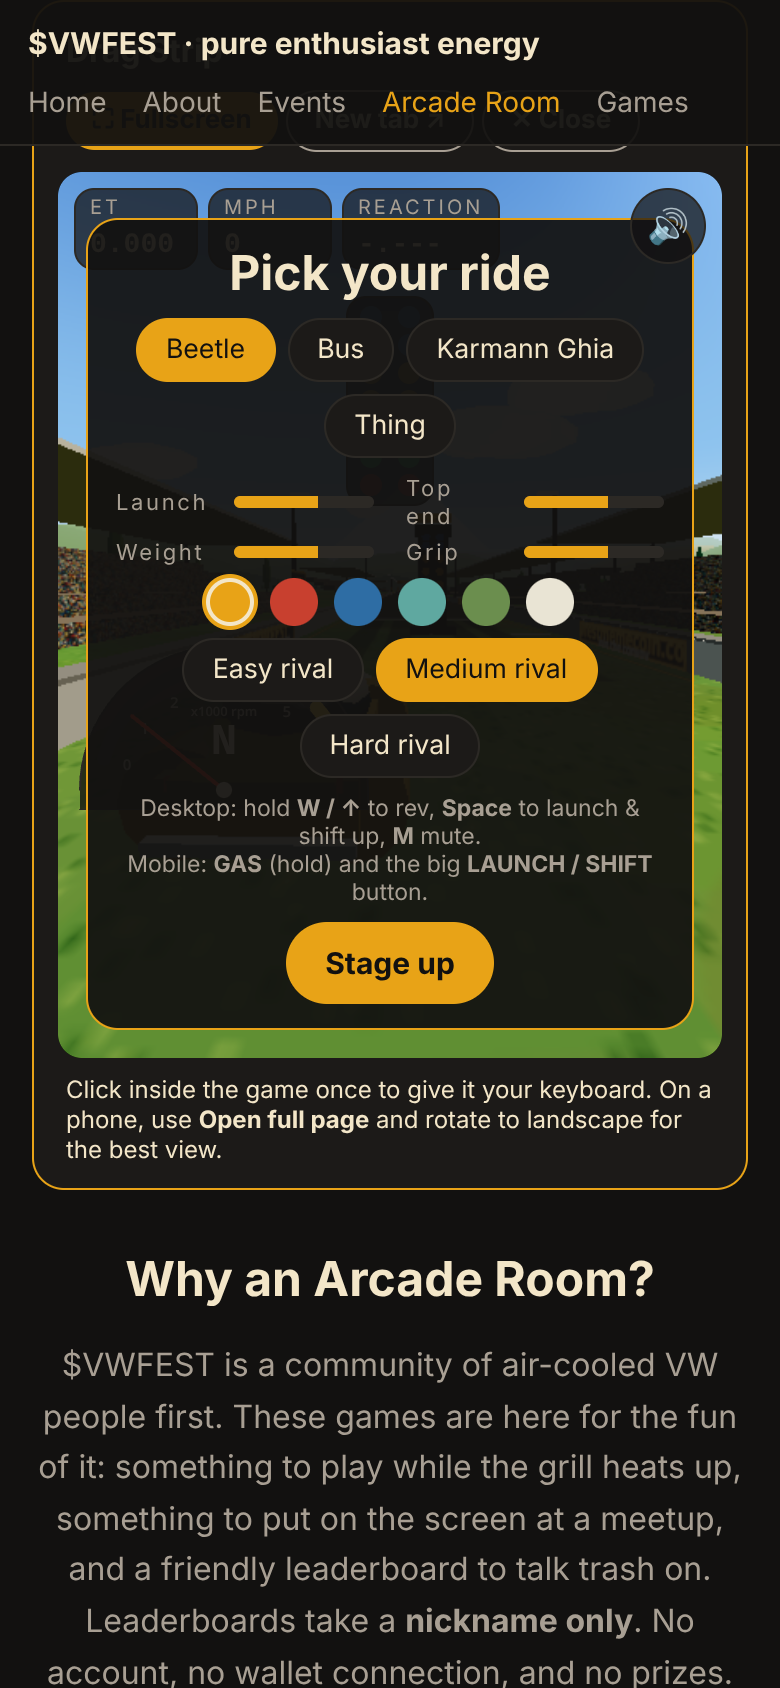
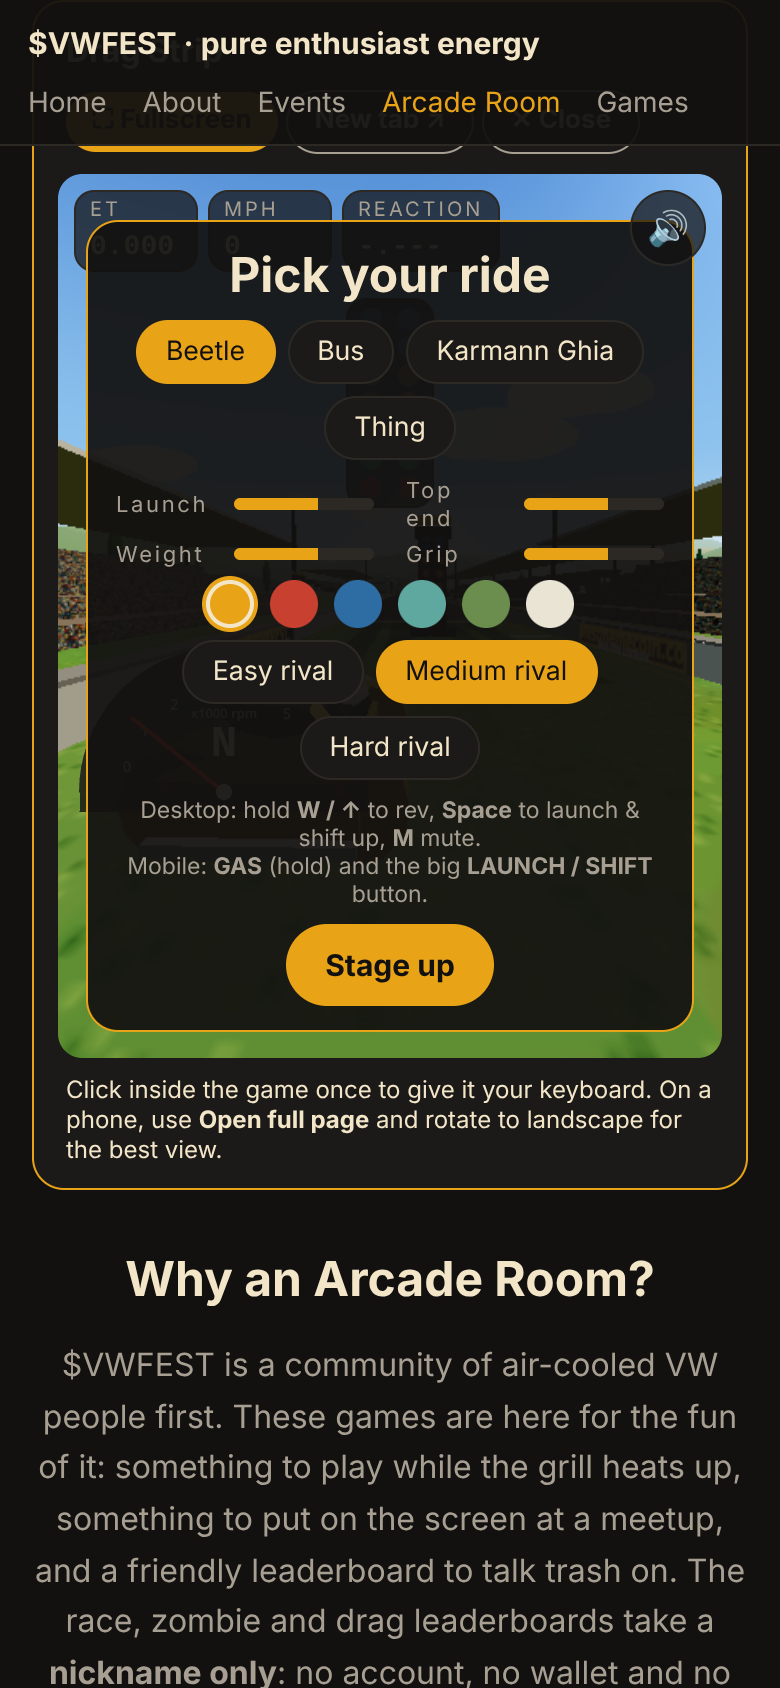
Add GUESS THE CHART card (link-only, new tab)

diff --git a/index.html b/index.html
@@ -6,7 +6,7 @@
 <meta http-equiv="Content-Security-Policy" content="default-src 'self'; script-src 'self'; style-src 'self'; img-src 'self' data: https://vwfestmemecoin.com; connect-src 'self' https://race.vwfestmemecoin.com; frame-src https://vwfest.github.io; font-src 'self' data:; object-src 'none'; base-uri 'self'; form-action 'none'">
 <meta name="referrer" content="strict-origin-when-cross-origin">
 <title>$VWFEST Arcade Room — free games for holders &amp; enthusiasts</title>
-<meta name="description" content="The $VWFEST Arcade Room: free 3D browser games for holders and enthusiasts alike. Roadtrip Race, DUST &amp; DEAD zombie survival and Drag Strip, built for fun and community gatherings.">
+<meta name="description" content="The $VWFEST Arcade Room: free 3D browser games for holders and enthusiasts alike. Roadtrip Race, DUST &amp; DEAD zombie survival, Drag Strip and GUESS THE CHART, built for fun and community gatherings.">
 <link rel="icon" href="https://vwfestmemecoin.com/gallery/favicons/favicon.png">
 <link rel="stylesheet" href="style.css?v=1">
 </head>
@@ -24,7 +24,7 @@
 
 <main>
   <section class="hero">
-    <p class="kicker">FREE · NO WALLET · NO LOGIN · JUST FUN</p>
+    <p class="kicker">FREE GAMES · JUST FUN</p>
     <h1>ARCADE <span>ROOM</span></h1>
     <p class="tag">Free 3D games for <b>$VWFEST</b> holders and enthusiasts alike. Built for fun and for community gatherings: pull it up on a big screen at the meetup, pass the phone around, and settle it on the leaderboard.</p>
     <p class="cta"><a class="btn" href="#games">Pick a game ↓</a> <a class="btn ghost" href="https://vwfestmemecoin.com" rel="noopener">← Back to vwfestmemecoin.com</a></p>
@@ -64,6 +64,17 @@
         <h3>🏆 Quickest quarter miles</h3><ol class="top" data-board="drag"><li class="muted">Loading…</li></ol>
       </div>
     </article>
+
+    <article class="card" id="g-chart">
+      <img src="img/chart.jpg" width="960" height="600" alt="GUESS THE CHART: live SOL price, countdown and a $25 SOL weekly jackpot" loading="lazy">
+      <div class="body">
+        <div class="tags"><span>Weekly SOL price game</span><span>$209madness holders</span><span>Phone + desktop</span></div>
+        <h2>GUESS THE CHART</h2>
+        <p>Guess where SOL lands. Closest price wins $25 SOL, every week. Pick your emoji, watch the live leaderboard and see who takes the crown. Requires a free account and a Phantom wallet holding $209madness.</p>
+        <div class="actions"><a class="btn" href="https://guess-the-chart.onrender.com" target="_blank" rel="noopener">Play ↗</a></div>
+        <p class="note">Opens on its own page. For fun, see rules there.</p>
+      </div>
+    </article>
   </section>
 
   <section id="player" class="player hidden" aria-label="Game player">
@@ -75,14 +86,14 @@
 
   <section class="about">
     <h2>Why an Arcade Room?</h2>
-    <p>$VWFEST is a community of air-cooled VW people first. These games are here for the fun of it: something to play while the grill heats up, something to put on the screen at a meetup, and a friendly leaderboard to talk trash on. Leaderboards take a <b>nickname only</b>. No account, no wallet connection, and no prizes. Just bragging rights.</p>
+    <p>$VWFEST is a community of air-cooled VW people first. These games are here for the fun of it: something to play while the grill heats up, something to put on the screen at a meetup, and a friendly leaderboard to talk trash on. The race, zombie and drag leaderboards take a <b>nickname only</b>: no account, no wallet and no prizes, just bragging rights. GUESS THE CHART is the one exception: it has its own free account and a Phantom wallet check for $209madness holders, and its own rules.</p>
     <p class="links"><a href="https://vwfestmemecoin.com" rel="noopener">vwfestmemecoin.com</a> · <a href="https://x.com/VWFESTLIVE" rel="noopener noreferrer">@VWFESTLIVE on X ↗</a></p>
   </section>
 </main>
 
 <footer>
   <p><a href="https://vwfestmemecoin.com" rel="noopener">← Back to $VWFEST</a></p>
-  <p class="fine">Just for fun. No wallet, no login, no prizes. $VWFEST is a community-driven meme coin. Not financial advice. Just vibes, views, and a full tank.</p>
+  <p class="fine">Just for fun. The arcade games need no wallet or login; GUESS THE CHART has its own rules. $VWFEST is a community-driven meme coin. Not financial advice. Just vibes, views, and a full tank.</p>
 </footer>
 <script src="arcade.js?v=1"></script>
 </body>

diff --git a/README.md b/README.md
@@ -9,5 +9,6 @@ A free, static landing page for the $VWFEST community games (for holders and ent
 | VW Fest Race | https://race.vwfestmemecoin.com | link only (the race server sends `X-Frame-Options: DENY`) |
 | DUST & DEAD | https://vwfest.github.io/vwfest-zombies/ | iframe (sandboxed) |
 | Drag Strip | https://vwfest.github.io/vwfest-drag/ | iframe (sandboxed, `?embed=1`) |
+| GUESS THE CHART | https://guess-the-chart.onrender.com | link only (new tab; own accounts + wallet check) |
 
 Plain HTML/CSS/JS, no build step, no third-party scripts. A strict Content-Security-Policy is set in `index.html`. Top-3 boards are read from `https://race.vwfestmemecoin.com` (CORS allowlisted to this origin).
